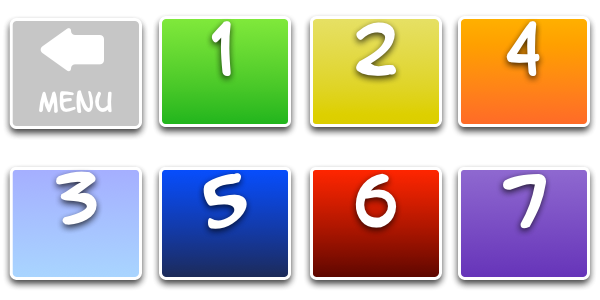
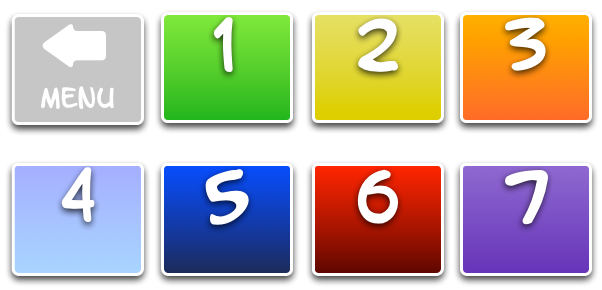
BETA v.1001
- corretto l'ordine dei pulsanti in level list
- importato lodash anche nella versione device
- notifica delle pergamente/bacchette usate
- aggiunto imp (la sua assenza causava un crash)
- corretto un bug nelle cure
- aggiunto un drop base ai nemici sprovvisti in modalita' 1 star

Changed region(s): [[0.0, 0.5586, 0.99, 0.9931], [0.0, 0.031, 0.99, 0.4345], [0.78, 0.4034, 0.99, 0.4345]]

diff --git a/js/menu.js b/js/menu.js
@@ -10,6 +10,7 @@
 
 	window.menu = {};
 	game.difficulty = 0;
+	game.version = "BETA 1001";
 
 	menu.setupScene = function( images ) {
 		
@@ -24,7 +25,7 @@
 		window.creditsScene = director.createScene( );
 		window.reportScene = director.createScene( );
 		
-		CAAT.setCoordinateClamping( false ); // This should improve performance...
+		CAAT.setCoordinateClamping( false );
 		
 		// UI - Strings and Bars
 		game.UI = {
@@ -43,8 +44,7 @@
 	
 	// Audio Manager ================================================================================================
 		
-		// director.addAudio( '0', document.getElementById('audio_01') );
-		director.addAudio( 'boom', "audio/spells/boom.mp3" );
+		director.addAudio( 'boom', "audio/spells/boom.ogg" );
 		// director.audioPlay( 'boom' );
 		
 	// ( Scene 0 ) Main menu ================================================================================================
@@ -59,6 +59,15 @@
 				setBounds( 0, 0, WW, HH ).
 				setBackgroundImage( director.getImage( 'cover' ), false ).
 				setLocation( 1, 1 )
+		 );
+		
+		// Main menu - Version Number
+		menuScene.addChild( 
+			new CAAT.Foundation.UI.TextActor( ).
+				setText( "version: "+game.version ).
+				setFont( game.options.fontAlt ).
+				setTextFillStyle( "white" ).
+				setLocation( 20, HH-50 )
 		 );
 		
 		// Main menu - Play Button
@@ -219,16 +228,16 @@
 		reportScene.addChild( reportScene.bg );
 		
 		// Report - gold
-		reportScene.goldLabel = new CAAT.Foundation.UI.TextActor( ).
-			setText( "0" ).
-			setTextFillStyle( "white" ).
-			setFont( game.options.fontBig ).
-			setTextAlign( 'center' ).
-			setPositionAnchor( 0.5, 0 ).
-			setVisible( false ). //TODO rimuovere
-			setLocation( 760, 140 );
+		// reportScene.goldLabel = new CAAT.Foundation.UI.TextActor( ).
+		// 	setText( "0" ).
+		// 	setTextFillStyle( "white" ).
+		// 	setFont( game.options.fontBig ).
+		// 	setTextAlign( 'center' ).
+		// 	setPositionAnchor( 0.5, 0 ).
+		// 	setVisible( false ). //TODO rimuovere
+		// 	setLocation( 760, 140 );
 			
-		reportScene.bg.addChild( reportScene.goldLabel );
+		// reportScene.bg.addChild( reportScene.goldLabel );
 		
 		// Report - xp
 		reportScene.xpLabel = new CAAT.Foundation.UI.TextActor( ).
@@ -237,6 +246,7 @@
 			setFont( game.options.fontBig ).
 			setTextAlign( 'center' ).
 			setPositionAnchor( 0.5, 0 ).
+			enableEvents( false ).
 			setLocation( 760, 300 );
 			
 		reportScene.bg.addChild( reportScene.xpLabel );
@@ -246,6 +256,7 @@
 			setLocation( 730, 480 ).
 			setBackgroundImage( game.UI.stars ).
 			setPositionAnchor( 0.5, 0 ).
+			enableEvents( false ).
 			setScale( 1.8, 1.8 );
 			
 		reportScene.addChild( reportScene.starsImg );
@@ -255,6 +266,7 @@
 			setLocation( WW/2, HH/2 ).
 			setBackgroundImage( game.UI.levelUp ).
 			setPositionAnchor( 0.5, 0.5 ).
+			enableEvents( false ).
 			setVisible( false );
 			
 		reportScene.addChild( reportScene.levelUp );

diff --git a/js/levels.js b/js/levels.js
@@ -1,7 +1,6 @@
 (function(){ 
 	game.waves = [
 		null, 
-		// [  { ogre_magi:1 }, { goblin:1 }, { goblin:1 }, { goblin:1 }, { rakshaaza:1 }, { necromancer:1 }, { duergar:1, troll:1 }, { giant:1 }, { iron_golem:1 }, { clay_golem:1 } ],
 		[ // 1 Campagna - Sloth (1...3) : [ coboldi, goblin, orchi, troll ] 4/4 ---> ranged( goblin )
 			{ kobold:4 }, 
 			{ kobold:3, goblin:3 }, 
@@ -55,7 +54,7 @@
 			{ imp:1 },
 			{ necromancer:3, orc:5, imp:2 }
 		],
-		[ // 5 Torre del mago - Pride (5...7) : [ tutti elementali, scheletri, golem argilla, golem ferro, dragonkind ] 5/8 ---> caster hard ( Rakshaaza )
+		[ // 5 Torre del mago - Pride (5...7) : [ tutti elementali, scheletri, golem argilla, golem ferro ] 5/8 ---> caster hard ( Rakshaaza )
 			{ necromancer:5 }, 
 			{ necromancer:2, imp:4 }, 
 			{ skeleton:20, imp:1 }, 
@@ -80,8 +79,9 @@
 			{ giant:1 }, 
 			{ clay_golem:2, elem_earth:5 }, 
 			{ orc:10, kobold:10, elem_air:2, elem_earth:2, elem_fire:2 }, 
-			{ kobold:20, giant:1, duergar:2 },
-			{ clay_golem:3, elem_earth:15 }
+			{ kobold:20, clay_golem:1, duergar:2 },
+			{ clay_golem:1, elem_earth:15 },
+			{ giant:1, duergar:2 }
 		],
 		[ // 7 Cimitero - Envy (7...9) : [ zombi, scheletri, necromancer, iron_golem, ghost ] 1/6
 			{ skeleton:1 },

diff --git a/js/spells.js b/js/spells.js
@@ -9,7 +9,7 @@ game.spellBook = {
 		cost: 			7,
 		element: 		"force",
 		school:			"invocation", 
-		cooldown: 		false,
+		cooldown: 		1,
 		// icon: 		"id" su cui cercare nell'immagine che contiene tutte le icone, che sara' simile al file "base"
 			
 		travel : {
@@ -226,10 +226,14 @@ game.spellBook = {
 			return [ 
 				null, 
 				function( target ){
-					//if ( target.isBoss() ){
-					//	target.damage( 100 );
-					//} else
-					target && target.die( );
+					if ( !target ) {
+						return false
+					}
+					if ( target.boss ){
+						target.damage( 100 );
+					} else {
+						target.die(  );
+					}
 					return true;
 				}
 			];

diff --git a/js/drops.js b/js/drops.js
@@ -44,8 +44,9 @@ game.dropTable = {
 							game.player.addItem( {
 								imageId: 3,
 								charges: 1,
-								spellId: roll( 0, 3 ),
+								spellId: roll( 1, 3 ),
 								use: function() {
+									game.player.notify( game.spellList[ this.spellId ] );
 									spellIndex = 'item';
 								}
 							} );
@@ -61,6 +62,7 @@ game.dropTable = {
 								charges: 5,
 								spellId: roll( 0, 3 ),
 								use: function() {
+									game.player.notify( game.spellList[ this.spellId ] );
 									spellIndex = 'item';
 								}
 							} );

diff --git a/js/enemy-support.js b/js/enemy-support.js
@@ -83,11 +83,9 @@ window.AI = {
 			}
 			if ( this.cooldown <= 0 ) {
 				for (var i=0; i < game.enemies.length; i++) {
-					var amount = ( game.enemies[i].wounds / 2 ).toFixed( 0 );
-					if ( amount > 0 ) {
+					if ( game.enemies[i].wounds > 0 ) {
 						this.target = game.enemies[i];
-						this.target.say( "+"+amount, "green" );
-						this.target.wounds = amount;
+						this.target.heal( 12 );
 						this.cooldown = this.attackSpeed;
 						this.playAnimation( 'attack' );
 						return;

diff --git a/js/game.js b/js/game.js
@@ -344,6 +344,9 @@
 		if ( _DEBUG ) CAAT.log( '[Game] setupDifficulty '+d+' to enemy '+enemy.id );
 		if ( d === 0 ) {
 			enemy.hp = ( enemy.hp/2 ).toFixed( 0 );
+			if ( !_.has( enemy, 'dropTable' ) || enemy.dropTable.length === 0 ) {
+				enemy.dropTable = [ { chance: 5, id: 'scroll', qty: 1 }, { chance: 2, id: 'wand', qty: 1 } ];
+			}
 		}
 		if ( d === 1 ) {
 			if ( !_.has( enemy, 'dropTable' ) || enemy.dropTable.length === 0 ) {

diff --git a/js/enemies.js b/js/enemies.js
@@ -305,6 +305,11 @@ game.enemiesBook = {
 			
 		}
 	},
+	imp:{
+		level: 2,
+		ai: AI.caster,
+		spellsKnown: [ 'magic_missile', 'rock' ]
+	},
 	ogre_magi:{
 		level: 5,
 		ai: AI.caster,
@@ -313,6 +318,6 @@ game.enemiesBook = {
 	rakshaaza:{
 		level: 10,
 		ai: AI.caster,
-		spellsKnown: [ 'teleport', 'fireball', 'magic_missile' ]
+		spellsKnown: [ 'teleport', 'fireball', 'magic_missile', 'void-sphere' ]
 	}
 };

diff --git a/js/main.js b/js/main.js
@@ -77,6 +77,7 @@
 			addElement( "iron_golem",	"img/sprites/enemies/iron_golem.png" ).
 			addElement( "clay_golem",	"img/sprites/enemies/clay_golem.png" ).
 			addElement( "zombie",		"img/sprites/enemies/zombie.png" ).
+			addElement( "imp",			"img/sprites/enemies/imp.png" ).
 			addElement( "ogre_magi",	"img/sprites/enemies/ogre_magi.png" ).
 			addElement( "rakshaaza",	"img/sprites/enemies/rakshaaza.png" ).
 			

diff --git a/index.html b/index.html
@@ -4,6 +4,8 @@
 <html>
 <head>
     <title>AoQtD - DEVICE</title>
+    <!-- Lodash -->
+    <script type="text/javascript" src="lib/lodash.min.js"></script>
 	<!-- CAAT files -->
 	<script type="text/javascript" src="OrcTech-CAAGE/3rdparty/caat-min.js"></script>
 	<script type="text/javascript" src="OrcTech-CAAGE/3rdparty/CAAT/CAAT.js"></script>

diff --git a/TODO.md b/TODO.md
@@ -5,10 +5,12 @@ piu' o meno forti che avanzano verso di lui, su cui si sparano incantesimi per d
 
 ## TODO
 
+ * il gioco diventa man mano piu' lento, capire che cosa potrebbe essere
+
 ( GRAPHICS )
 
 	* mostri rimanenti
-	* Rifare livelli 3(bosco/foresta tramonto) e 7(cimitero notturno)
+	* Rifare livelli 3(bosco/foresta tramonto)
 	* Sprite dell'albero per ogni livello
 		1,3: albero
 		2: cactus
@@ -26,7 +28,6 @@ piu' o meno forti che avanzano verso di lui, su cui si sparano incantesimi per d
 
 	* aggiungere i fg per gli sfondi
 	* inserire Suoni e Musica
-		// director.audioPlay( 'boom' );
 	* creare la funzione "stampEffect" per scritta "you win", "level up" e i px
 	
 ( DOPO )
@@ -79,18 +80,16 @@ drow 			// sr
 giant
 
 	// caster
-????			// healer
 rakshasa    	// evocatore (elementali) HARD
+imp
+ogre magi
 
 necromancer		// evocatore (dretch) EASY
-vampiro			// evocatore (progenie vamp) MEDIUM
 
 	// healer
 duergar 		// healer, sr
 
     // melee
-progenie vampirica
-dretch
 zombie
 melma
 ghoul
@@ -102,7 +101,7 @@ minotauro
 
 golem argilla
 golem ferro
-golem roccia
+gigante
 
 	// custom
 giant turtle    // fase invulnerabilita'
